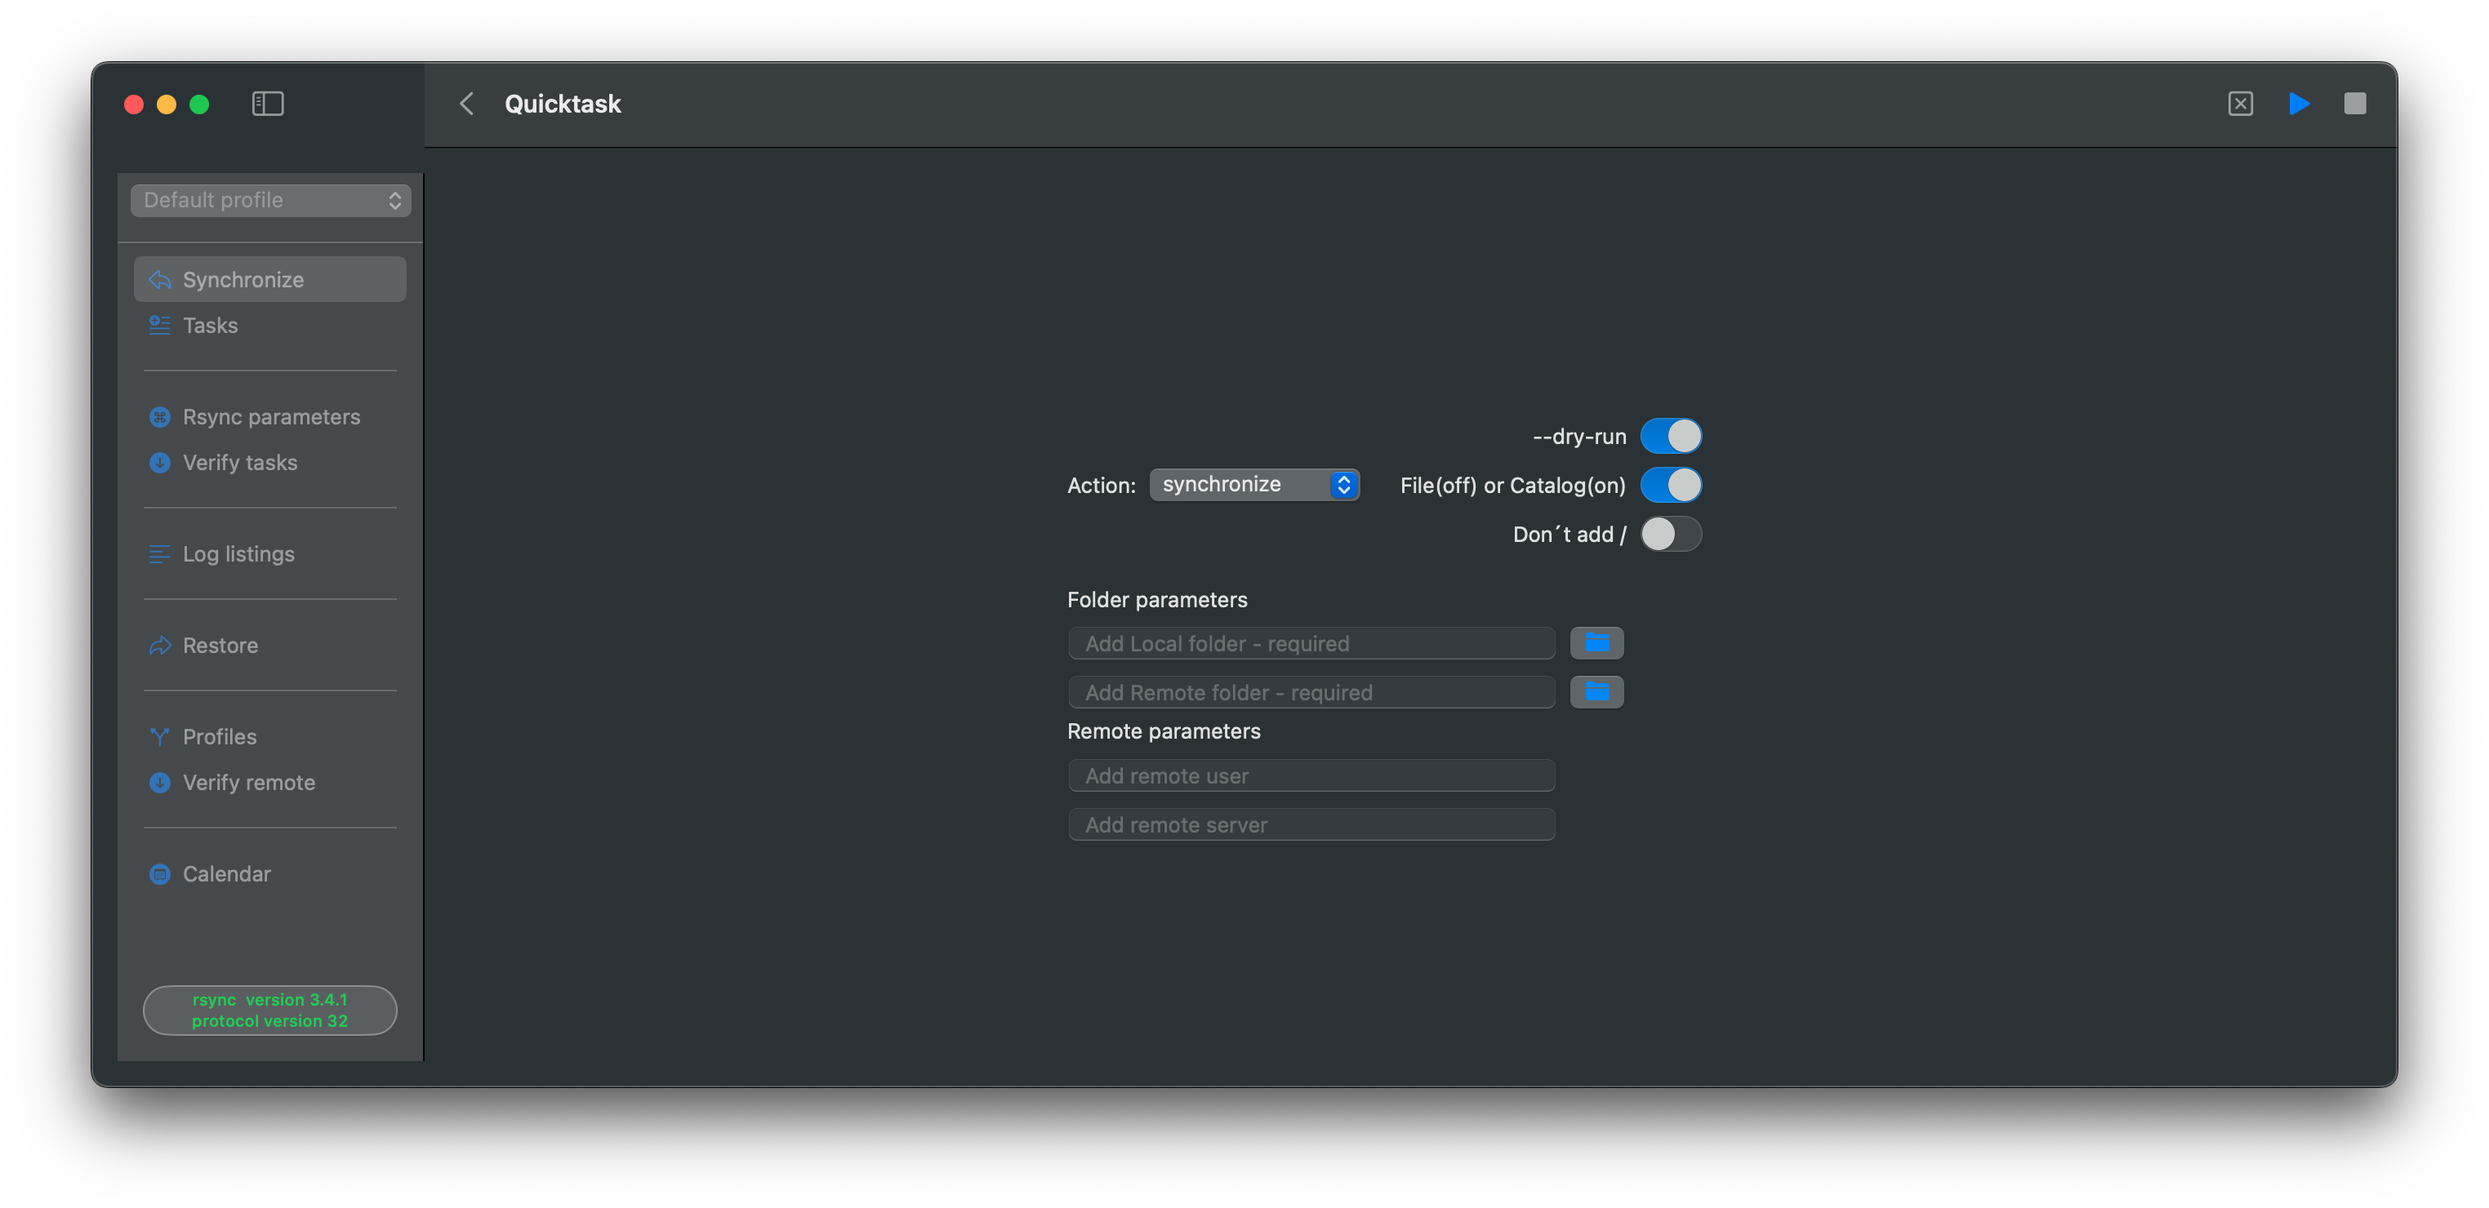
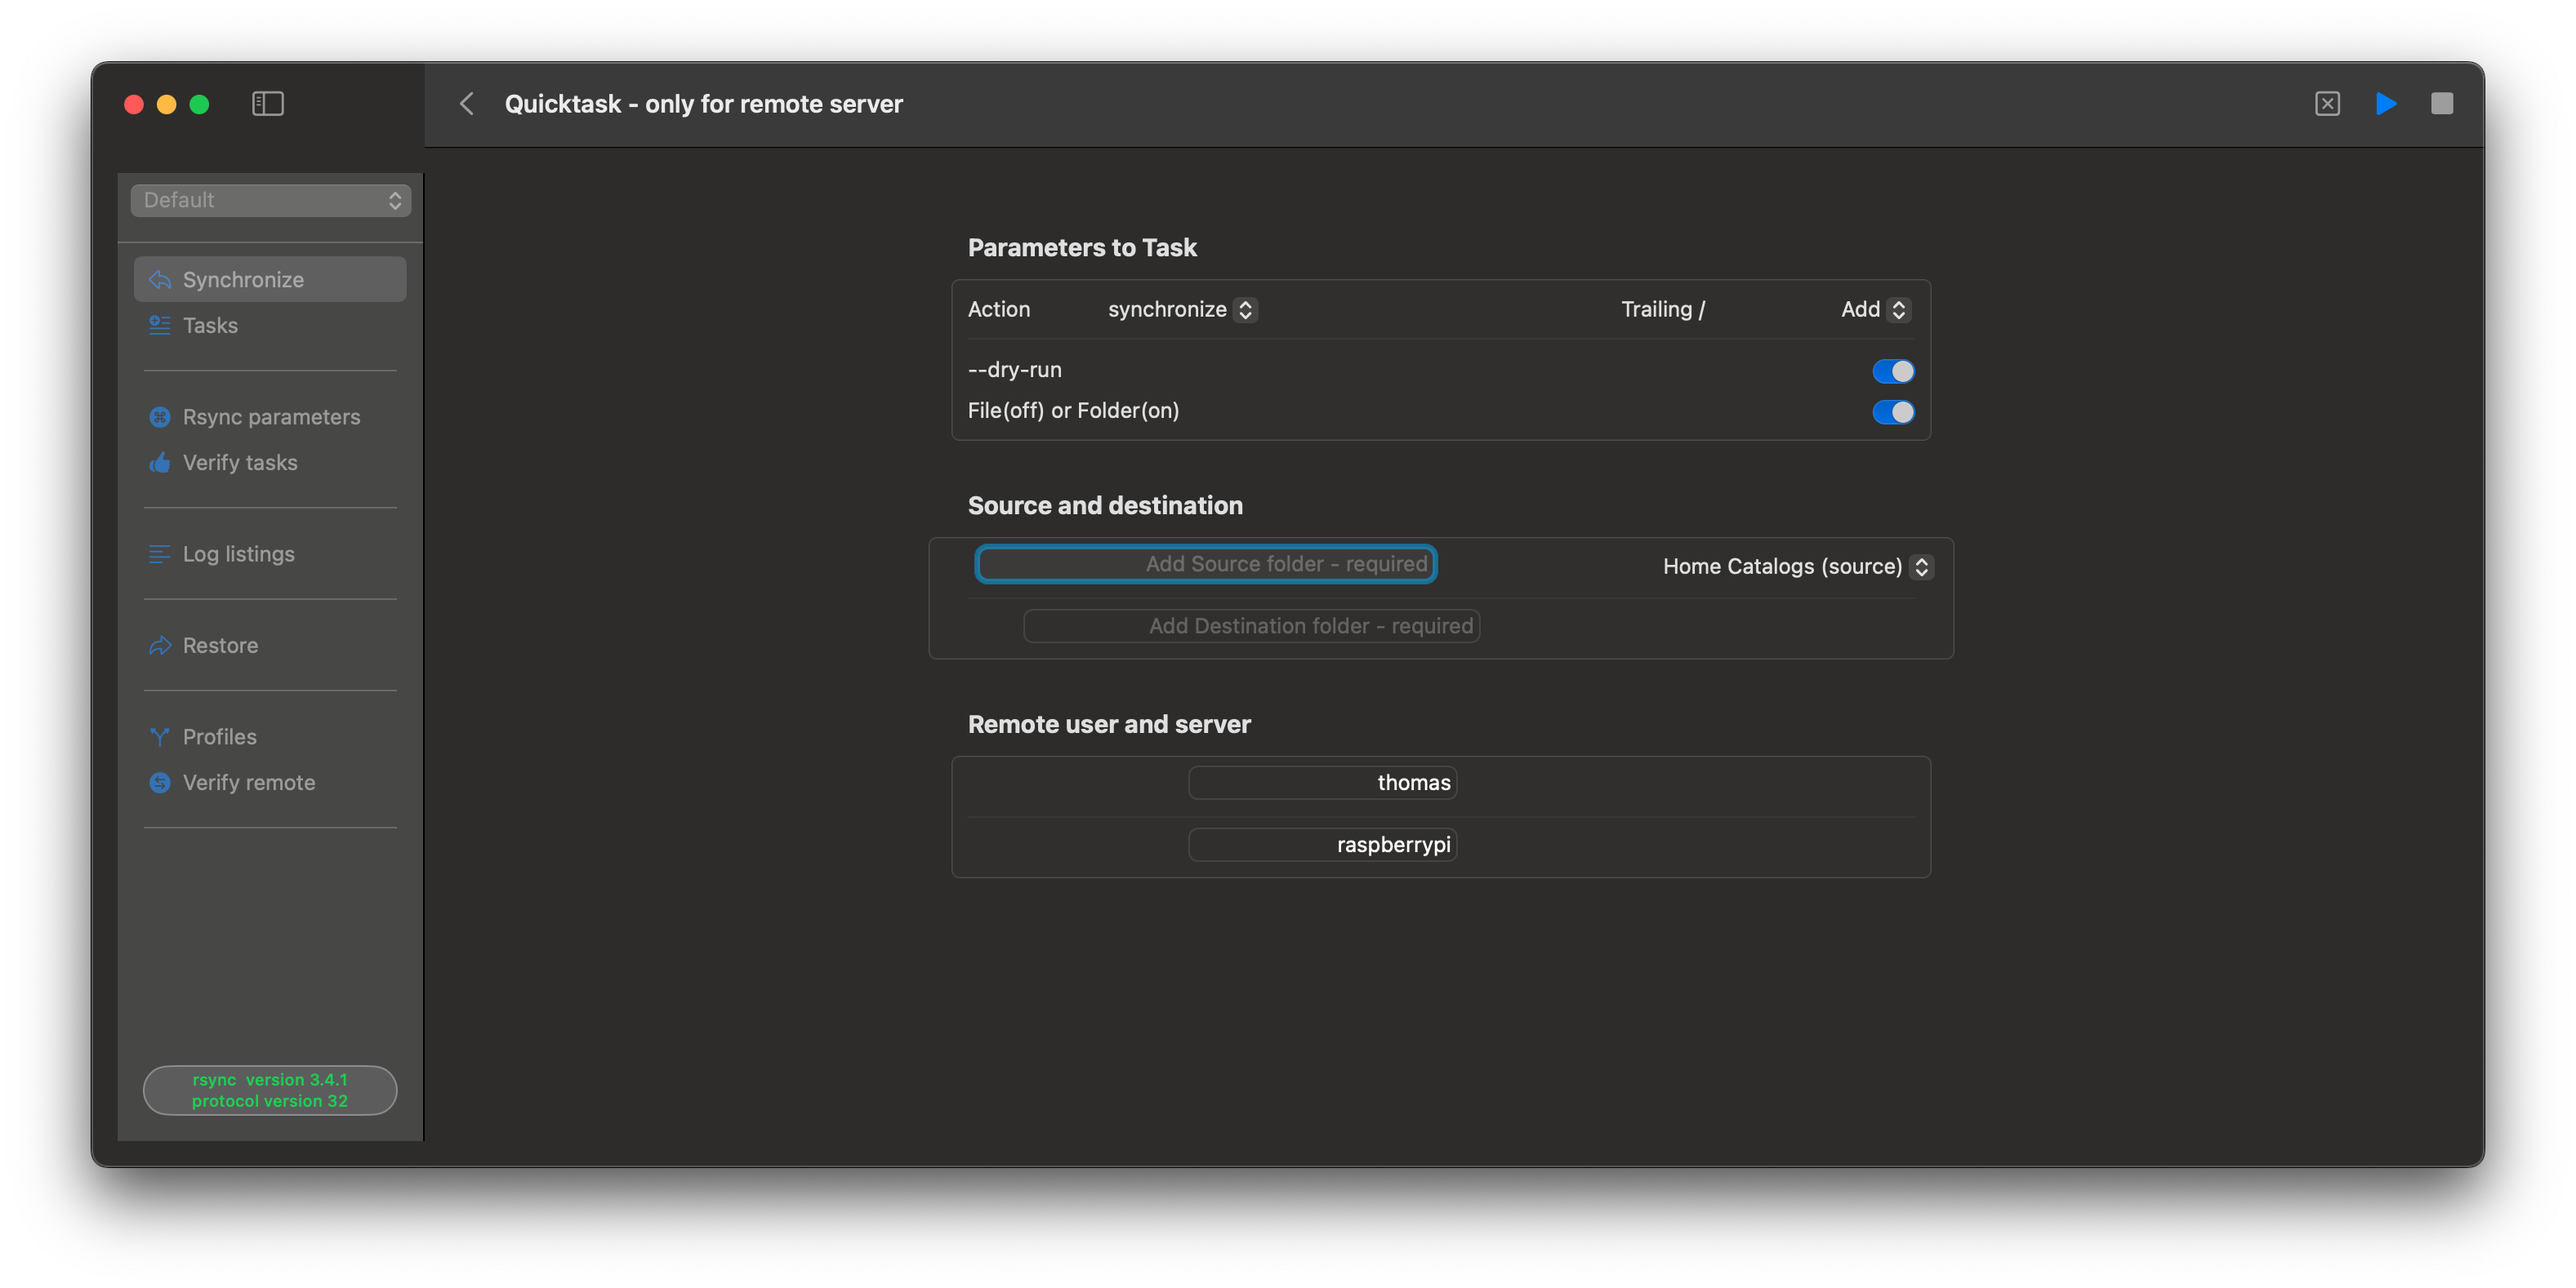
update

diff --git a/content/en/docs/Quicktask.md b/content/en/docs/Quicktask.md
@@ -7,12 +7,24 @@ categories = ["synchronize"]
 lastmod = "2024-03-18"
 +++
 
+{{< alert >}}
+
+The Quick task function in version 2.6.4 is not working as it should, my fault. It is a minor function and only valid for remote servers. But if you sometimes use it, there is a new upload version 2.6.5 for download which fixes the issue. If you don’t need Quick task, don’t bother to download.
+
+{{< /alert >}}
+
 Use QuickTask for quickly copy or transfer files to either source or destination. QuickTask will save the last executed quick task as default values. Default values can be cleared by the toolbar function.
 
 There are two types of quick tasks:
 
-- `synchronize`: synchronize local files to remote, aka *push* data
-- `syncremote`: synchronize remote files to local, aka *pull* data
+- *synchronize* - synchronize local files to remote, aka *push* data
+- *syncremote* - synchronize remote files to local, aka *pull* data
+
+Trailing /
+
+- *Add trailing slash* - add a trailing slash to both the source and destination
+- *Do not add trailing slash* - do not add a trailing slash, or if added, remove it
+- *Do not check* - do not check for trailing slash or not on either the source or destination
 
 {{< figure src="/images/quicktask/quicktask.png" alt="" position="center" style="border-radius: 8px;" >}}
 
@@ -20,12 +32,12 @@ After entering data, the default task is a `--dry-run` task. It is recommended t
 
 #### Folder parameters
 
-- **Local folder**: a required field
-- **Remote folder**: a required field
+- *Source folder* - required field
+- *Destination folder* - required field
   - a `~` is expanded as the home directory with the full path by the remote operating system
   - the remote directory may also be specified by full path, depending on where the backup directory is located on the remote server
 
 #### Remote parameters
 
-- **Remote username**: the username for logging into the remote server
-- **Remote server**: either the server name or IP address for the remote server
+- *Remote username* -  username for login to the remote server
+- *Remote server* - either server name or IP address for the remote server

diff --git a/content/en/blog/Version264.md b/content/en/blog/Version264.md
@@ -8,6 +8,12 @@ categories = ["changelog"]
 
 ### Version 2.6.4 (build 158) - August 18, 2025
 
+{{< alert >}}
+
+The Quick task function in this release is not working as it should, my fault. It is a minor function and only valid for remote servers. But if you sometimes use it, there is a new upload version 2.6.5 for download which fixes the issue. If you don’t need Quick task, don’t bother to download.
+
+{{< /alert >}}
+
 There are four major updates within this release:
 
 - method for observers, based on *AsyncSequence*, has been applied, please refer to the blog post *Observers* for more details
